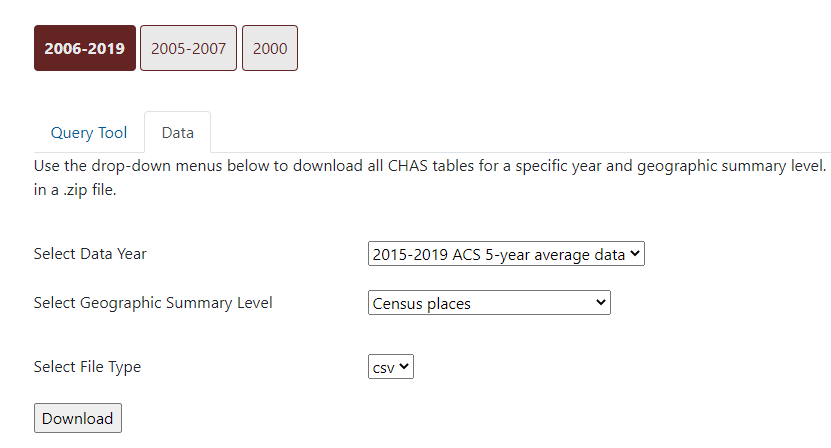
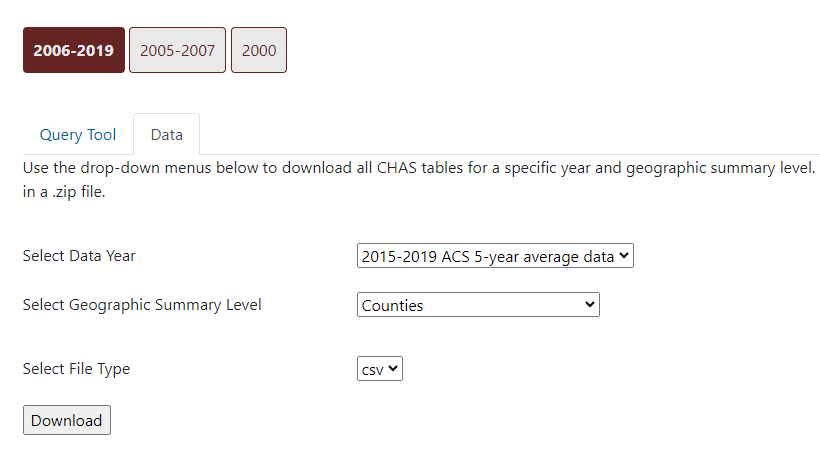
revised prework

diff --git a/docs/prework.html b/docs/prework.html
@@ -2149,7 +2149,7 @@ Tools for Organizing
 <h1 id="session-files-on-local-drive">Session Files on Local Drive</h1>
 <ol type="1">
 <li><p>Clone the repo <a href="https://github.com/psrc/intro-code-org">https://github.com/psrc/intro-code-org</a> onto your local drive.</p></li>
-<li><p>Download the CHAS zip file of the <code>2015-2019 ACS 5-year average data</code> for <code>Census places</code> from <a href="https://www.huduser.gov/portal/datasets/cp.html#data_2006-2019">here</a>.</p></li>
+<li><p>Download the CHAS zip file of the <code>2015-2019 ACS 5-year average data</code> for <code>Census counties</code> from <a href="https://www.huduser.gov/portal/datasets/cp.html#data_2006-2019">here</a>.</p></li>
 </ol>
 <ul>
 <li><p>Extract the zipfile in the <code>data</code> sub-directory of the cloned repo.</p></li>
@@ -2158,19 +2158,9 @@ Tools for Organizing
 <p><img src="slides/images/chas-download.png" /></p>
 <p>Make sure that the repo and other files for the session are <strong>on your local drive</strong>. If they are on PSRC’s network, you may experience extreme sluggishness when using a <code>.Rproj</code> file.</p>
 <h2 id="open-.rproj">Open .Rproj</h2>
-<p>In the RStudio IDE, open the <code>.Rproj</code> file. Project files will automatically set our working directory–in this case, the root of the directory. No need for <code>setwd()</code> and dealing with file paths!</p>
-<p><img src="images/rproj.png" /></p>
+<p>In the RStudio IDE, open the <code>.Rproj</code> file in the repo. Project files will automatically set our working directory–in this case, the root of the directory. No need for <code>setwd()</code> and dealing with file paths!</p>
 <p>After opening the <code>.Rproj</code> file, you’ll see some changes to your IDE. Your console and <code>Files</code> pane will reflect the new working directory, and the project name is listed in the top right corner.</p>
-<p><img src="images/rproj-changes.png" />
-To close out of the project, click the project name at the top right corner and select <code>Close Project</code>. On the day of the session, you can access the dropdown in that area of the IDE and select ``.</p>
-<div class="adjacent-image">
-<div class="image-left">
-<p><img src="images/rproj-close.png" /></p>
-</div>
-<div>
-<p><img src="images/rproj-open.png" /></p>
-</div>
-</div>
+<p>To close out of the project, click the project name at the top right corner and select <code>Close Project</code>. On the day of the session, you can access the dropdown in that area of the IDE and select <code>intro-code-org</code>.</p>
 <h1 id="install">Install</h1>
 <p>If the following packages have not been installed, install the following by running the following code snippet in the console of your RStudio IDE. Ignore any warnings regarding <code>Rtools</code> and if you are asked to install from sources which needs compilation, click ‘No’.</p>
 <aside>

diff --git a/docs/slides/slides.html b/docs/slides/slides.html
@@ -10,7 +10,7 @@
     <link href="libs/panelset/panelset.css" rel="stylesheet" />
     <script src="libs/panelset/panelset.js"></script>
     <link href="libs/tachyons/tachyons.min.css" rel="stylesheet" />
-    <script type="application/json" id="xaringanExtra-editable-docid">{"id":"a4d107f08b4f4158a78a2d8f9d812e0a","expires":1}</script>
+    <script type="application/json" id="xaringanExtra-editable-docid">{"id":"x0815e48abd4484e87e44bf4f7f59b74","expires":1}</script>
     <script src="libs/himalaya/himalaya.js"></script>
     <script src="libs/js-cookie/js.cookie.js"></script>
     <link href="libs/editable/editable.css" rel="stylesheet" />
@@ -130,15 +130,16 @@ class: inverse, center, middle
 
 ### Exercise (5 minutes)
 
-.pull-left[
+.panelset[
+.panel[.panel-name[Exercise]
 Let's create a function that when called, does the following to any CHAS table: 
+.pull-left[
+- Filter for WA state and PSRC counties
 
-- filter for WA state and PSRC counties
-
-- pivot longer (so columns that start with **T** are not across the table, but contained in a single column)
+- Pivot longer (so columns that start with **T** are not across the table, but contained in a single column)
 
 Extra credit:
-- create 3 more columns that dissect the column containing the former **T...** headers: 
+- Create 3 more columns that dissect the column containing the former **T...** headers: 
     - create **table** field extracting `T` and the numbers before the underscore
     
     - create **type** field extracting 'est' or 'moe'
@@ -157,6 +158,21 @@ clean_table &lt;- function(table) {
 }
 ```
 ]
+]
+
+]
+
+.panel[.panel-name[End Output]
+![](images/chas-end-output.png)
+]
+
+.panel[.panel-name[Resources]
+
+- [Stringr](https://stringr.tidyverse.org/)
+- [Stringr Cheat Sheet](https://github.com/rstudio/cheatsheets/blob/main/strings.pdf)
+
+]
+
 ]
 
 ---

diff --git a/slides/slides.html b/slides/slides.html
@@ -10,7 +10,7 @@
     <link href="libs/panelset/panelset.css" rel="stylesheet" />
     <script src="libs/panelset/panelset.js"></script>
     <link href="libs/tachyons/tachyons.min.css" rel="stylesheet" />
-    <script type="application/json" id="xaringanExtra-editable-docid">{"id":"a4d107f08b4f4158a78a2d8f9d812e0a","expires":1}</script>
+    <script type="application/json" id="xaringanExtra-editable-docid">{"id":"x0815e48abd4484e87e44bf4f7f59b74","expires":1}</script>
     <script src="libs/himalaya/himalaya.js"></script>
     <script src="libs/js-cookie/js.cookie.js"></script>
     <link href="libs/editable/editable.css" rel="stylesheet" />
@@ -130,15 +130,16 @@ class: inverse, center, middle
 
 ### Exercise (5 minutes)
 
-.pull-left[
+.panelset[
+.panel[.panel-name[Exercise]
 Let's create a function that when called, does the following to any CHAS table: 
+.pull-left[
+- Filter for WA state and PSRC counties
 
-- filter for WA state and PSRC counties
-
-- pivot longer (so columns that start with **T** are not across the table, but contained in a single column)
+- Pivot longer (so columns that start with **T** are not across the table, but contained in a single column)
 
 Extra credit:
-- create 3 more columns that dissect the column containing the former **T...** headers: 
+- Create 3 more columns that dissect the column containing the former **T...** headers: 
     - create **table** field extracting `T` and the numbers before the underscore
     
     - create **type** field extracting 'est' or 'moe'
@@ -157,6 +158,21 @@ clean_table &lt;- function(table) {
 }
 ```
 ]
+]
+
+]
+
+.panel[.panel-name[End Output]
+![](images/chas-end-output.png)
+]
+
+.panel[.panel-name[Resources]
+
+- [Stringr](https://stringr.tidyverse.org/)
+- [Stringr Cheat Sheet](https://github.com/rstudio/cheatsheets/blob/main/strings.pdf)
+
+]
+
 ]
 
 ---
